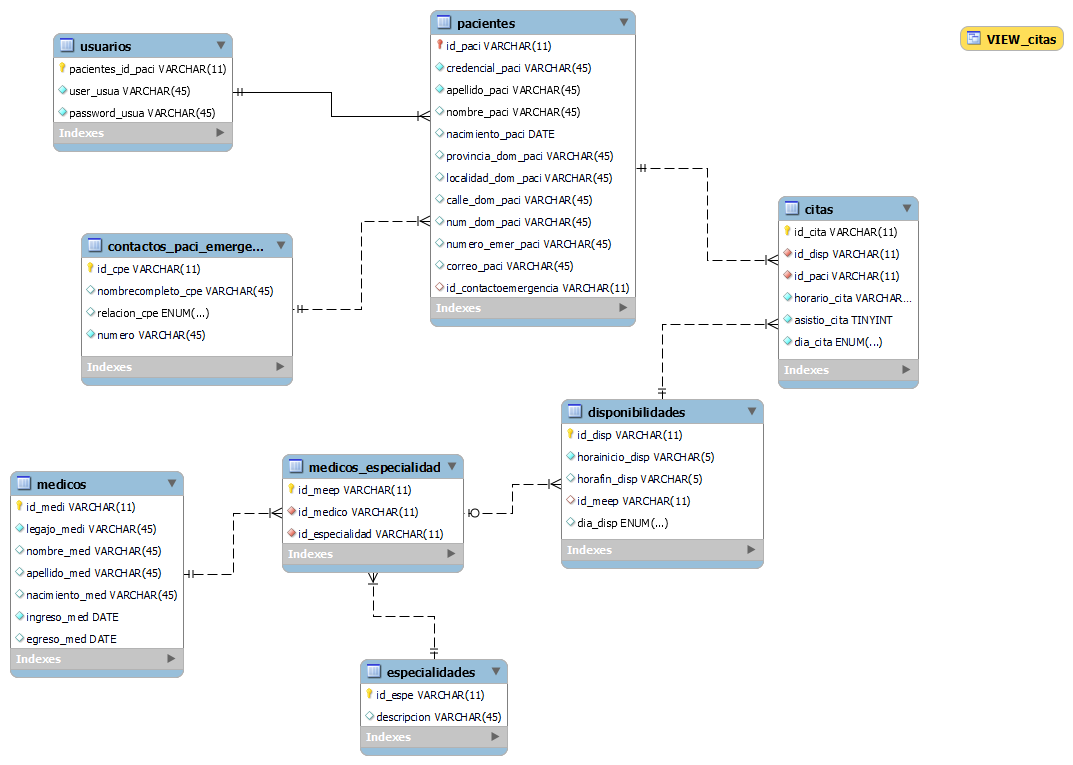
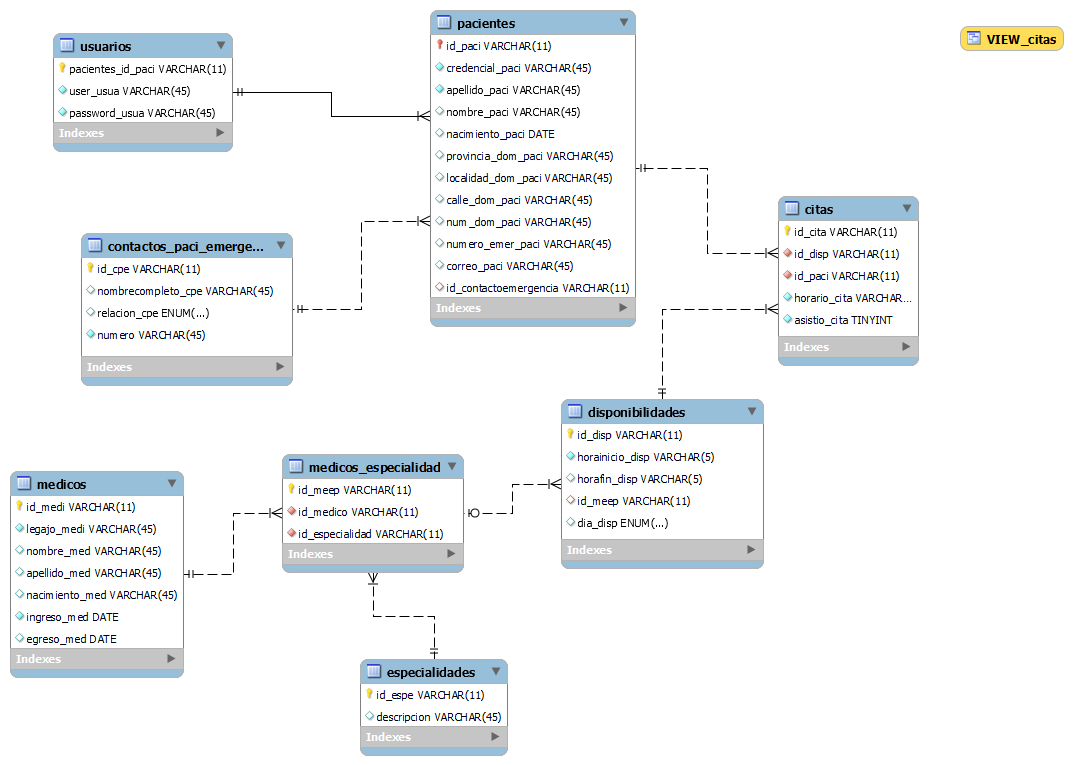
horario citas y disponibilidades validados

Changed region(s): [[0.7074, 0.3908, 0.8611, 0.5111], [0.7074, 0.3307, 0.7381, 0.3608]]

diff --git a/services/disponibilidades.py b/services/disponibilidades.py
@@ -1,6 +1,8 @@
 from flask import jsonify, request
 from config.mysql import mysql
+
 from functions.id_generator import id_generator
+from functions.citas_x_turno import validator_medico
 
 
 def disponibilidades_get():
@@ -32,12 +34,15 @@ def disponibilidad_add():
         data = request.json
         cursor = mysql.connection.cursor()
         new_id = id_generator('dis')
-        while get_disponibilidad_by_id(new_id) is None:
-            new_id = id_generator("med")
-        cursor.execute("INSERT INTO disponibilidades (id_disp, horainicio_disp, horafin_disp, id_meep, dia_disp) VALUES (%s, %s, %s, %s, %s)", (new_id, data['horainicio_disp'], data['horafin_disp'], data['id_meep'], data['dia_disp']))
-        mysql.connection.commit()
-        cursor.close()
-        return jsonify({"message": "Datos cargados"}), 200
+        if validator_medico(data['horainicio_disp'], data['horafin_disp']):
+            while get_disponibilidad_by_id(new_id) is None:
+                new_id = id_generator("med")
+            cursor.execute("INSERT INTO disponibilidades (id_disp, horainicio_disp, horafin_disp, id_meep, dia_disp) VALUES (%s, %s, %s, %s, %s)", (new_id, data['horainicio_disp'], data['horafin_disp'], data['id_meep'], data['dia_disp']))
+            mysql.connection.commit()
+            cursor.close()
+            return jsonify({"message": "Datos cargados"}), 200
+        else:
+            return jsonify({"message": "Horarios no válidos"}), 400
     except Exception as e:
         print(e)
         return jsonify({"message": "Error al cargar los datos"}), 500
@@ -48,17 +53,22 @@ def disponibilidad_modify():
         data = request.json
         cursor = mysql.connection.cursor()
         if 'id_disp' in data:
-            query = "UPDATE disponibilidades SET "
-            for key in data:
-                if key != 'id_disp':
-                    query += f"{key} = '{data[key]}', "
-            query = query.replace("''", "' '")
-            query = query[:-2]
-            query += f" WHERE id_disp = '{data['id_disp']}'"
-            cursor.execute(query)
-            mysql.connection.commit()
-        cursor.close()
-        return jsonify({"message": "Datos modificados"}), 200
+            if validator_medico(data['horainicio_disp'], data['horafin_disp']):
+                query = "UPDATE disponibilidades SET "
+                for key in data:
+                    if key != 'id_disp':
+                        query += f"{key} = '{data[key]}', "
+                query = query.replace("''", "' '")
+                query = query[:-2]
+                query += f" WHERE id_disp = '{data['id_disp']}'"
+                cursor.execute(query)
+                mysql.connection.commit()
+                cursor.close()
+                return jsonify({"message": "Datos modificados"}), 200
+            else:
+                return jsonify({"message": "Horarios no válidos"}), 400
+        else:
+            return jsonify({"message": "Falta el id"}), 400
     except Exception as e:
         print(e)
         return jsonify({"message": "Error al modificar los datos"}), 500

diff --git a/services/citas.py b/services/citas.py
@@ -3,7 +3,7 @@ from flask_jwt_extended import get_jwt_identity
 
 from config.mysql import mysql
 from functions.id_generator import id_generator
-
+from functions.citas_x_turno import citas_x_turno
 
 def citas_get():
     try:
@@ -59,11 +59,14 @@ def create_cita():
             if cantidad != 0:
                 while cita(new_id) is not None:
                     new_id = id_generator("cit")
-            cursor.execute('INSERT INTO citas (id_cita, id_disp, id_paci, dia_cita, horario_cita, asistio_cita) VALUES (%s, %s, %s, %s, %s, %s)',
-                           (new_id, data['id_disp'], data['id_paci'], data['dia_cita'], data['horario_cita'], False), )
-            mysql.connection.commit()
-            cursor.close()
-            return jsonify({"message": "Cita creada"}), 201
+            if citas_x_turno(data['horario_cita'], data['id_disp']):
+                cursor.execute('INSERT INTO citas (id_cita, id_disp, id_paci, horario_cita, asistio_cita) VALUES (%s, %s, %s, %s, %s)',
+                               (new_id, data['id_disp'], data['id_paci'], data['horario_cita'], False), )
+                mysql.connection.commit()
+                cursor.close()
+                return jsonify({"message": "Cita creada"}), 201
+            else:
+                return jsonify({"message": "Horario no disponible"}), 400
         else:
             return jsonify({"message": "No autorizado"}), 401
     except Exception as e:
@@ -78,17 +81,20 @@ def cita_modify():
         current_user_id = get_jwt_identity()
         data = request.json
         if current_user_id[0] == data['id_paci']:
-            query = "UPDATE citas SET "
-            for key in data:
-                if key != 'id_cita' and key != 'id_paci':
-                    query += f"{key} = '{data[key]}', "
-            query = query.replace("''", "' '")
-            query = query[:-2]
-            query += f" WHERE id_cita = '{data['id_cita']}'"
-            cursor.execute(query)
-            mysql.connection.commit()
-            cursor.close()
-            return jsonify({"message": "Datos modificados"}), 200
+            if citas_x_turno(data['horario_cita'], data['id_disp']):
+                query = "UPDATE citas SET "
+                for key in data:
+                    if key != 'id_cita' and key != 'id_paci':
+                        query += f"{key} = '{data[key]}', "
+                query = query.replace("''", "' '")
+                query = query[:-2]
+                query += f" WHERE id_cita = '{data['id_cita']}'"
+                cursor.execute(query)
+                mysql.connection.commit()
+                cursor.close()
+                return jsonify({"message": "Datos modificados"}), 200
+            else:
+                return jsonify({"message": "Horario no disponible"}), 400
         else:
             return jsonify({"message": "No autorizado"}), 401
     except Exception as e:

diff --git a/functions/citas_x_turno.py b/functions/citas_x_turno.py
@@ -1,0 +1,73 @@
+from config.mysql import mysql
+from datetime import time
+
+
+def get_horario_turno(horario: str):
+    try:
+        hora, minuto = validator(horario)
+        if (hora < 0 or hora > 23) and (minuto != 0 or minuto != 15 or minuto != 30 or minuto != 45):
+            return False
+        else:
+            print(hora, minuto)
+            return hora, minuto
+    except Exception as e:
+        print(e)
+        return False
+
+
+def validator(horario: str):
+    try:
+        if len(horario) == 5:
+            hora, minuto = horario.split(':')
+            hora = int(hora)
+            minuto = int(minuto)
+            return hora, minuto
+        else:
+            return False
+    except Exception as e:
+        print(e)
+        return False
+
+
+def get_hora_disp(id_disp: str):
+    try:
+        cursor = mysql.connection.cursor()
+        cursor.execute('SELECT horario_disp FROM disponibilidad WHERE id_disp = %s', (id_disp,))
+        data = cursor.fetchone()
+        cursor.close()
+        return data[1], data[2]
+    except Exception as e:
+        print(e)
+        return None
+
+
+def citas_x_turno(horario: str, id_disp: str):
+    try:
+        hora_turno, minuto_turno = get_horario_turno(horario)
+        hora_inicio, minuto_inicio = validator(get_hora_disp(id_disp)[0])
+        hora_fin, minuto_fin = validator(get_hora_disp(id_disp)[1])
+        horario_turno = time(hora_turno, minuto_turno)
+        horario_inicio = time(hora_inicio, minuto_inicio)
+        horario_fin = time(hora_fin, minuto_fin)
+        if horario_inicio <= horario_turno <= horario_fin:
+            return True
+        else:
+            return False
+    except Exception as e:
+        print(e)
+        return False
+
+
+def validator_medico(hora_inicio: str, hora_fin: str):
+    try:
+        hora_inicio = hora_inicio.split(':')
+        hora_fin = hora_fin.split(':')
+        hora_inicio = int(hora_inicio[0])
+        hora_fin = int(hora_fin[0])
+        if hora_inicio < hora_fin:
+            return True
+        else:
+            return False
+    except Exception as e:
+        print(e)
+        return False
